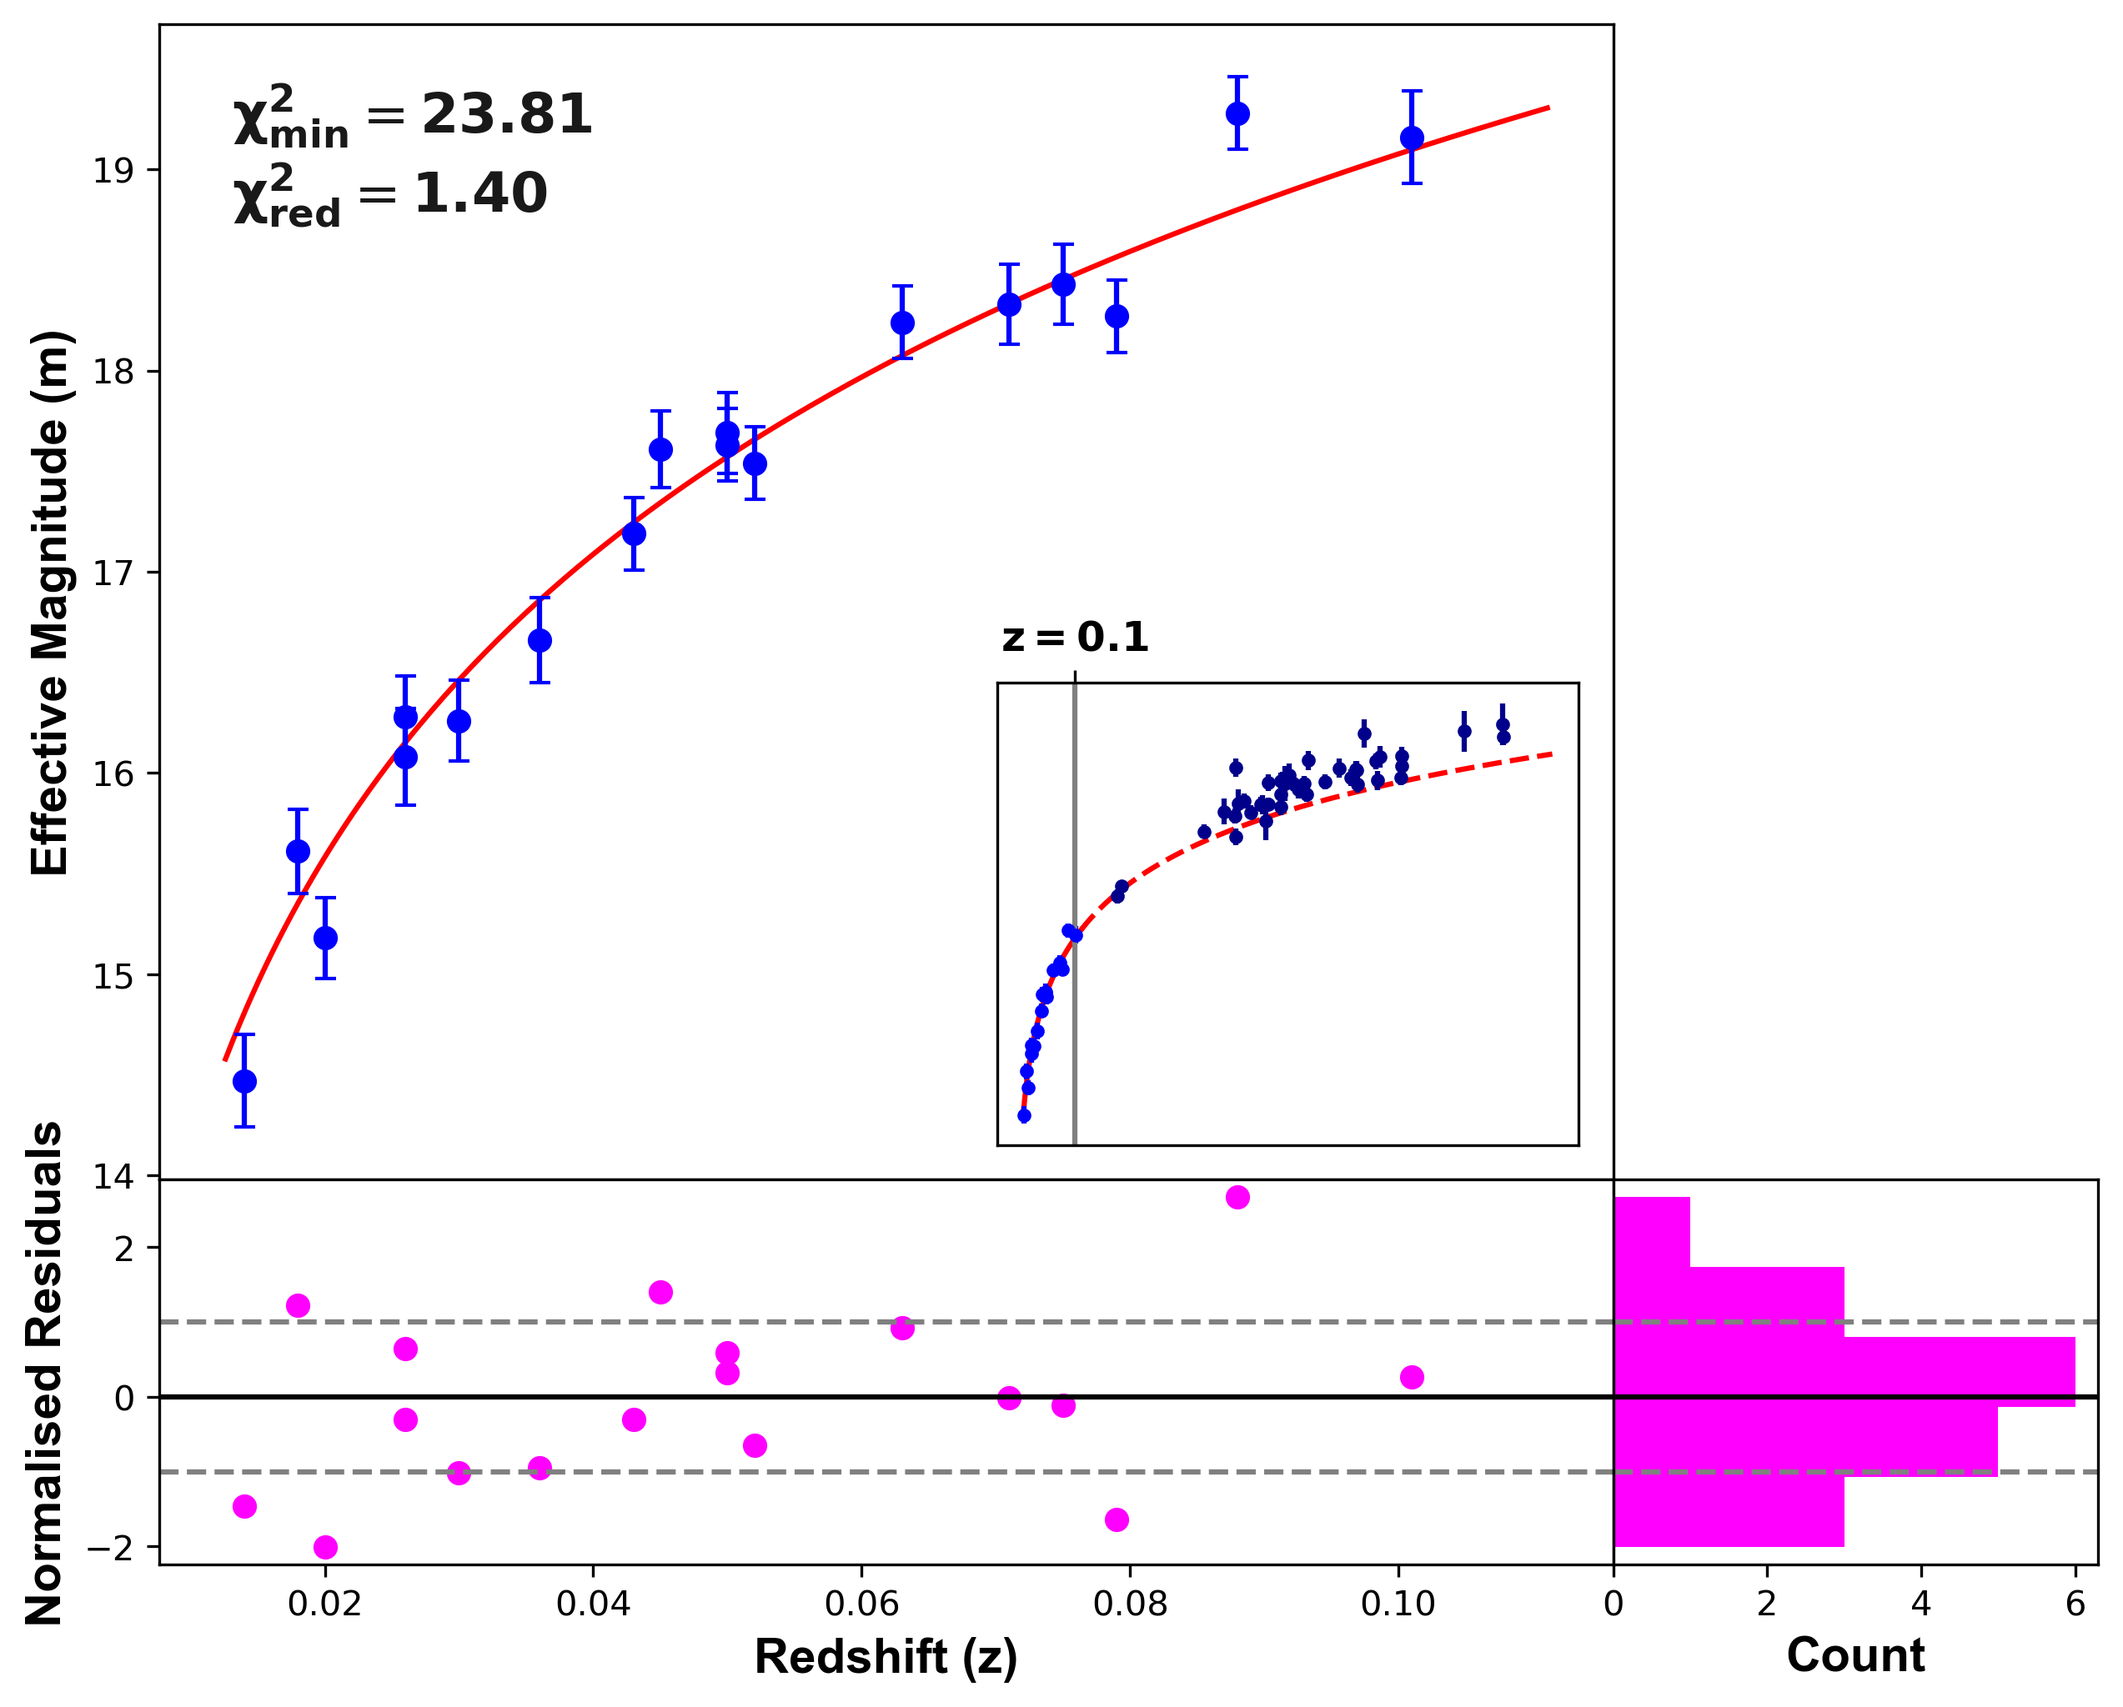
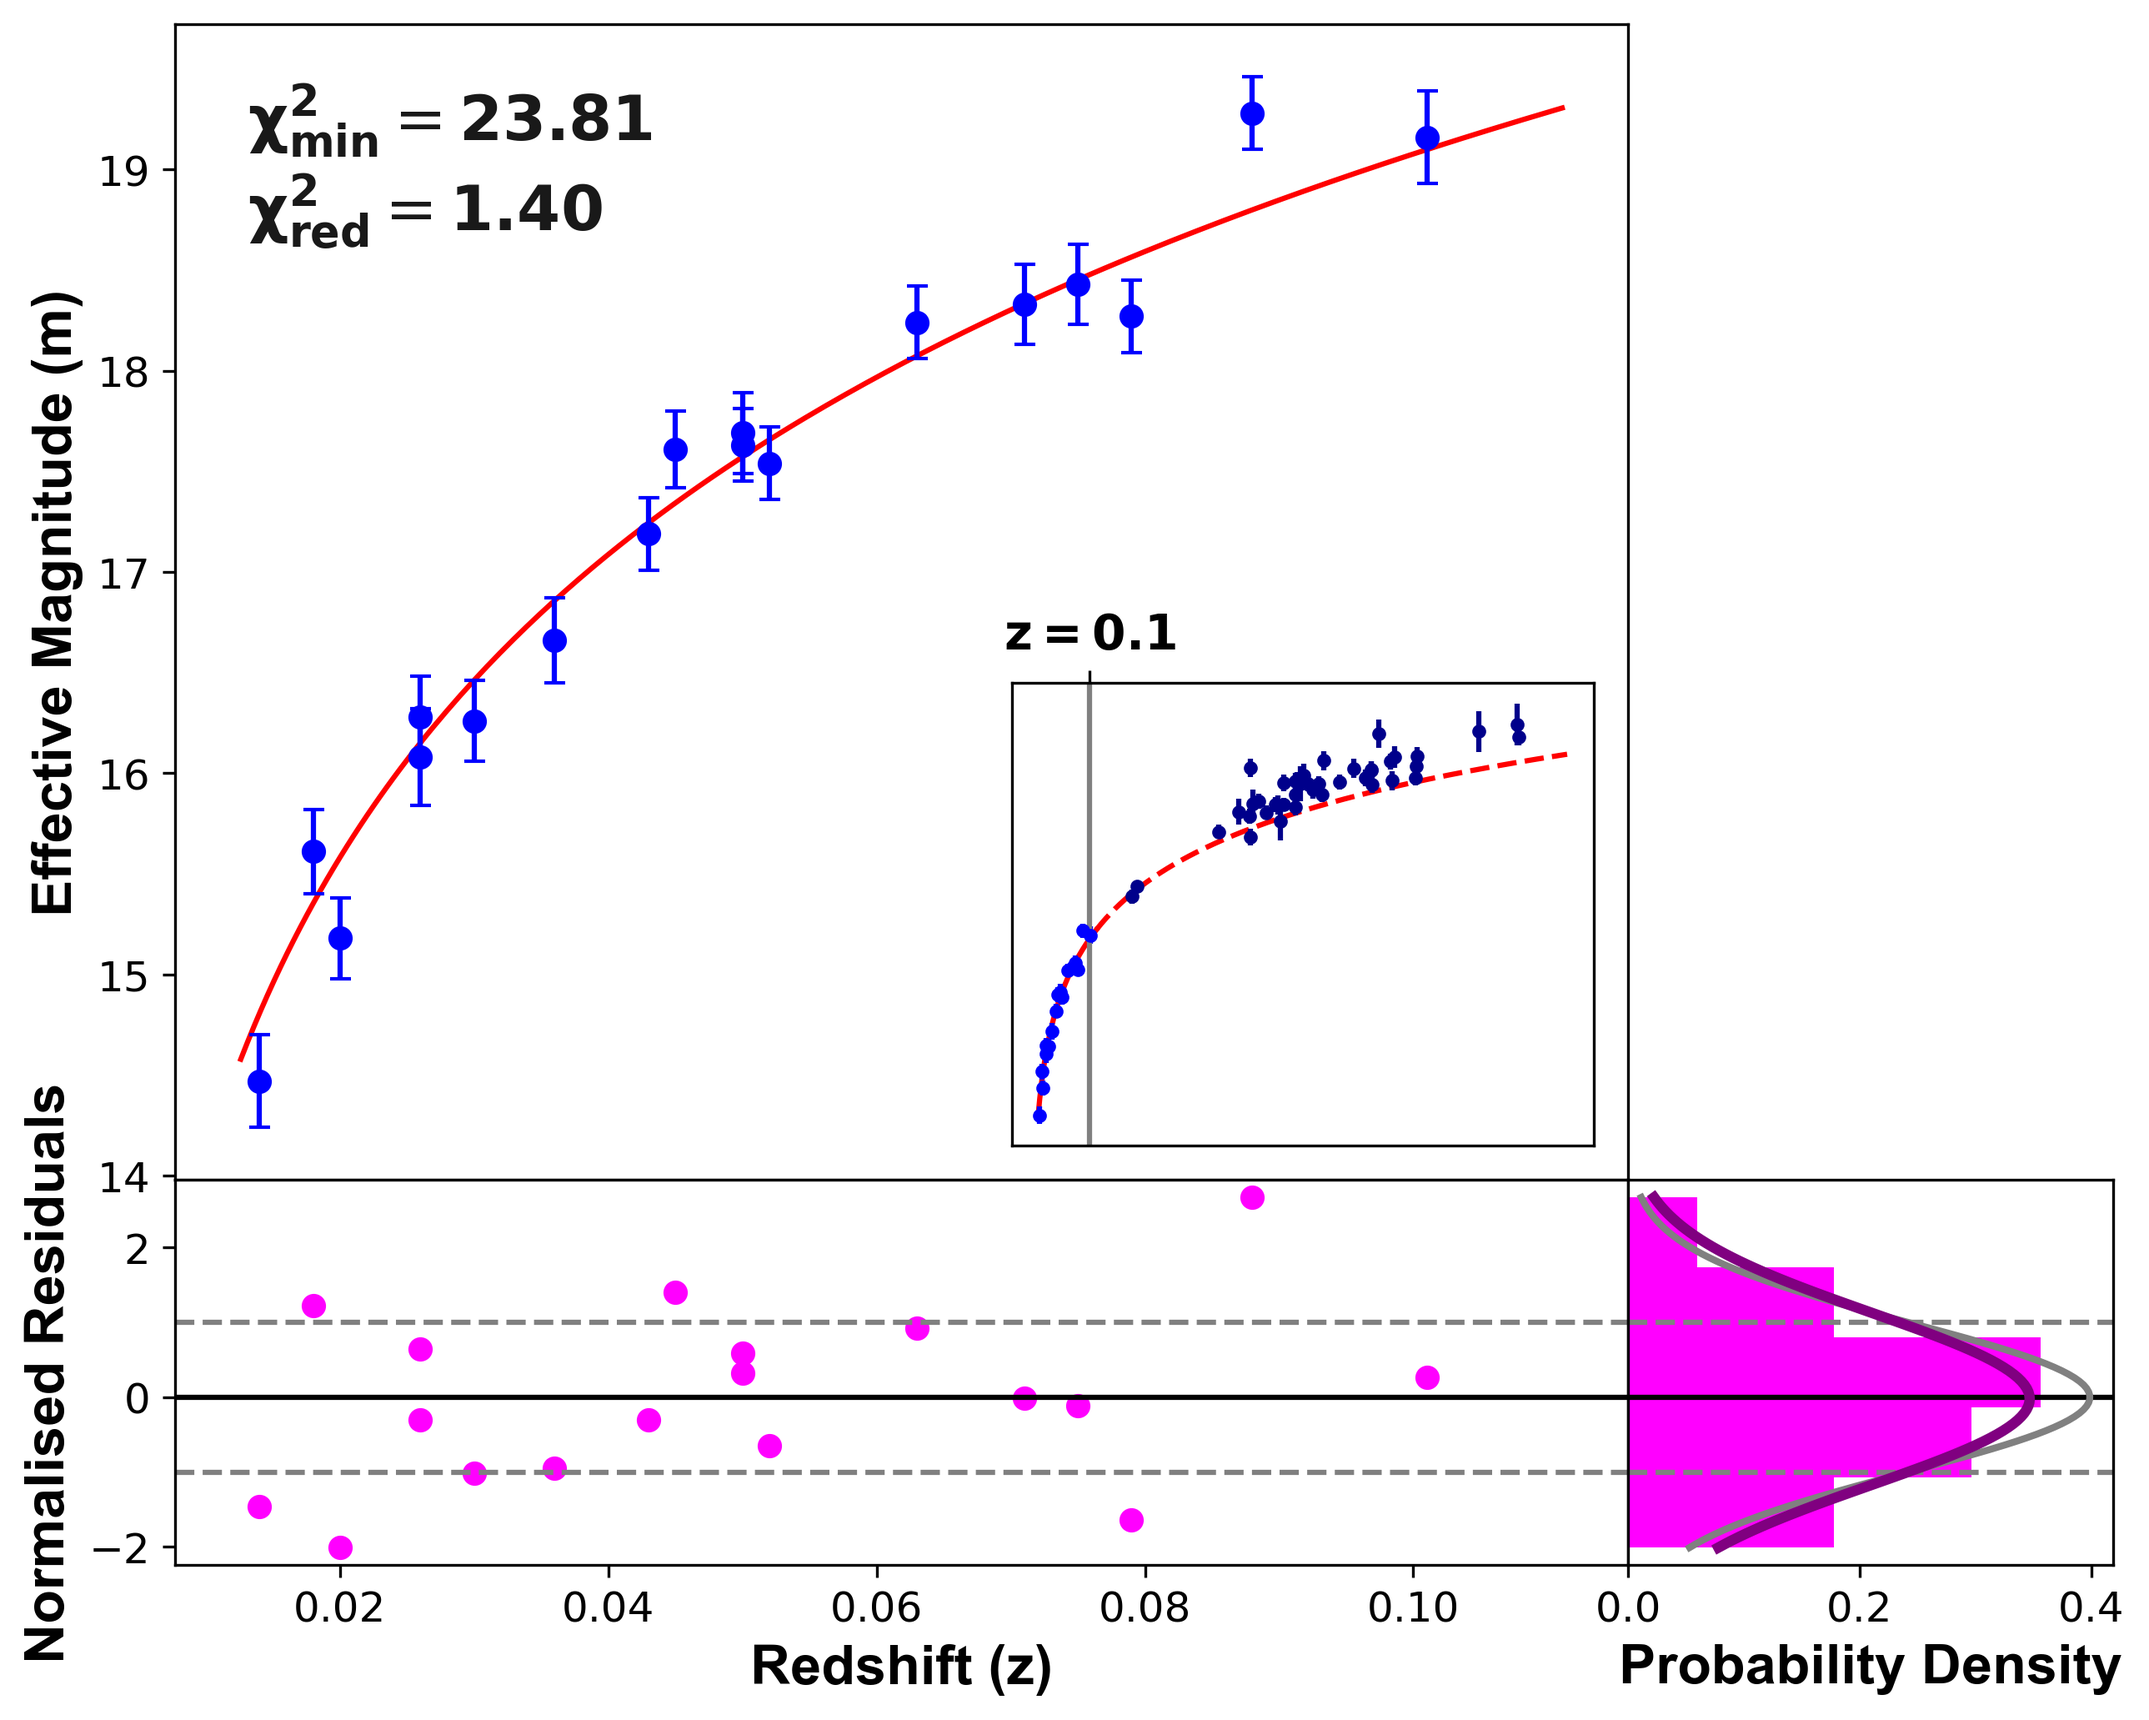
Tutorial 2 edits

diff --git a/part1_plotting.py b/part1_plotting.py
@@ -3,6 +3,7 @@ import astropy.units as u
 from astropy.constants import c
 import matplotlib.pyplot as plt
 import matplotlib.gridspec as gridspec
+from scipy.stats import norm
 from mpl_toolkits.axes_grid1.inset_locator import inset_axes
 from data_splitting import low_redshift_values
 from data_splitting import high_redshift_values
@@ -35,10 +36,10 @@ z_model = np.linspace(min(z_obs)*0.9, max(z_obs)*1.1, 200)
 m_model_vals = m_model(z_model, best_L)
 ax0.plot(z_model, m_model_vals, color='red', label='Best-fit model')
 ax0.errorbar(z_obs, m_obs, yerr=err, color = 'blue', fmt='o', label='Observed', capsize=3)
-ax0.set_ylabel('Effective Magnitude (m)',fontsize=14, fontweight='bold', fontname='Arial')
-ax0.tick_params(labelbottom=False) 
+ax0.set_ylabel('Effective Magnitude (m)',fontsize=16, fontweight='bold', fontname='Arial')
+ax0.tick_params(labelbottom=False, labelsize=12) 
 textstr = (r"$\mathbf{\chi^2_{min}} = \mathbf{" + f"{chi2_min:.2f}" + r"}$" + "\n" r"$\mathbf{\chi^2_{red}} = \mathbf{" + f"{chi2_red:.2f}" + r"}$")
-ax0.text(0.05, 0.95, textstr,transform=ax0.transAxes,fontsize=16,verticalalignment='top',horizontalalignment='left',alpha=0.9)
+ax0.text(0.05, 0.95, textstr,transform=ax0.transAxes,fontsize=18,verticalalignment='top',horizontalalignment='left',alpha=0.9)
 
 #full data and model fit inset
 inset = inset_axes(ax0, width="40%", height="40%", loc='lower right', borderpad=1)
@@ -54,7 +55,7 @@ inset.set_xticks([])
 inset.set_yticks([])  
 inset.set_xticks([0.1])
 inset.set_xticklabels([r'$\mathbf{z=0.1}$'])
-inset.tick_params(axis='x', labelsize=12) 
+inset.tick_params(axis='x', labelsize=14) 
 inset.xaxis.set_label_position('top') 
 inset.xaxis.tick_top() 
 
@@ -65,17 +66,28 @@ ax1.axhline(y=0, color='black')
 ax1.axhline(y=1, color='grey', linestyle='--')
 ax1.axhline(y=-1, color='grey', linestyle='--')
 ax1.scatter(z_obs, residuals, color='magenta')
-ax1.set_xlabel('Redshift (z)',fontsize=14, fontweight='bold', fontname='Arial')
-ax1.set_ylabel('Normalised Residuals',fontsize=14, fontweight='bold', fontname='Arial')
+ax1.set_xlabel('Redshift (z)',fontsize=16, fontweight='bold', fontname='Arial')
+ax1.set_ylabel('Normalised Residuals',fontsize=16, fontweight='bold', fontname='Arial')
+ax1.xaxis.set_tick_params(labelsize=12)
+ax1.yaxis.set_tick_params(labelsize=12)
 
 #histogram of residuals
 ax2 = fig.add_subplot(gs[1, 1], sharey=ax1) 
-ax2.hist(residuals, bins=5, color='magenta', orientation='horizontal')
+ax2.hist(residuals, bins=5, color='magenta', orientation='horizontal', density=True)
 ax2.axhline(y=0, color='black')
 ax2.axhline(y=1, color='grey', linestyle='--')
 ax2.axhline(y=-1, color='grey', linestyle='--')
-ax2.set_xlabel('Count',fontsize=14, fontweight='bold', fontname='Arial')
-ax2.tick_params(left=False, labelleft=False)  
+y = np.linspace(min(residuals), max(residuals), 300)
+#model and actual Gaussian
+mu_resid, sigma_resid = np.mean(residuals), np.std(residuals)
+mu_perf, sigma_perf = 0, 1
+y = np.linspace(min(residuals), max(residuals), 100)
+pdf_resid = norm.pdf(y, mu_resid, sigma_resid)
+pdf_perf = norm.pdf(y, mu_perf, sigma_perf)
+ax2.plot(pdf_perf, y, color='grey', lw=2)
+ax2.plot(pdf_resid, y, color='purple', lw=3)
+ax2.set_xlabel('Probability Density',fontsize=16, fontweight='bold', fontname='Arial')
+ax2.tick_params(left=False, labelleft=False, labelsize=12)  
 fig.savefig("Poster_L_plot.png", dpi=300, bbox_inches='tight')
 plt.show()
 
@@ -83,21 +95,21 @@ plt.show()
 #chi-squared for different peak luminosity values
 fig, ax = plt.subplots(figsize=(10, 8))
 ax.plot(np.log(L_values.value), chi2_values)
-ax.axhline(chi2_min, color = 'red', linestyle = '-')
-ax.axhline(chi2_min+1, color = 'red', linestyle = '--')
-ax.axvline(np.log(best_L.value), color = 'red', linestyle = '-')
-ax.axvline(np.log((best_L + sigma_L_plus).value), color = 'red', linestyle = '--')
-ax.axvline(np.log((best_L - sigma_L_minus).value), color = 'red', linestyle = '--')
-ax.set_xlabel('Peak luminosity', fontsize=14, fontweight='bold', fontname='Arial')
+ax.hlines(chi2_min, xmin=min(np.log(L_values.value)), xmax=np.log(best_L.value),color='red', linestyles='-')
+ax.hlines(chi2_min + 1, xmin=min(np.log(L_values.value)), xmax=np.log((best_L+sigma_L_plus).value),color='red', linestyles='--')
+ax.vlines(np.log(best_L.value), ymin=0, ymax=chi2_min, color='red', linestyles='-')
+ax.vlines(np.log((best_L + sigma_L_plus).value), ymin=0, ymax=chi2_min+1,color='red', linestyles='--')
+ax.vlines(np.log((best_L - sigma_L_minus).value), ymin=0, ymax=chi2_min+1,color='red', linestyles='--')
+ax.set_xlabel(r'$\mathbf{log_{10}}$ Peak Luminosity', fontsize=14, fontweight='bold', fontname='Arial')
 ax.set_ylabel(r'Minimised $\mathbf{\chi^2}$', fontsize=14, fontweight='bold', fontname='Arial')
-ax.set_xlim(74.5,75)
+ax.set_xlim(74.6,74.9)
 #ax.set_xticks([np.log(best_L.value), np.log((best_L + sigma_L_plus).value),np.log((best_L - sigma_L_minus).value),74.5,74.7,74.9])
 #ax.set_xticklabels(['$Best L$','$L+err$','$L-err$','74.5','74.7','74.9'])
-ax.set_xticks([np.log(best_L.value),74.5,74.6,74.7,74.8,74.9,75.0])
-ax.set_xticklabels([r'$\mathbf{Best\ L_{peak}}$','74.5','74.6','74.7','74.8','74.9','75.0'])
-ax.set_ylim(20,35)
-ax.set_yticks([chi2_min, chi2_min+1,20,23,26,29,32,35])
-ax.set_yticklabels(['$\\chi^2_{min}$','$\\chi^2_{min}+1$','20','23','26','29','32','35'])
+ax.set_xticks([np.log(best_L.value),74.6,74.7,74.8,74.9])
+ax.set_xticklabels([r'$\mathbf{Best\ L_{peak}}$','74.6','74.7','74.8','74.9'])
+ax.set_ylim(20,30)
+ax.set_yticks([chi2_min, chi2_min+1,20,23,26,29])
+ax.set_yticklabels([r'$\mathbf{\chi^2_{min}}$',r'$\mathbf{\chi^2_{min}+1}$','20','23','26','29'])
 textstr = (r"$\mathbf{\chi^2_{min}} = \mathbf{" + f"{chi2_min:.2f}" + r"}$" + "\n" r"$\mathbf{\chi^2_{red}} = \mathbf{" + f"{chi2_red:.2f}" + r"}$")
-ax.text(0.05, 0.4, textstr,transform=ax0.transAxes,fontsize=16,verticalalignment='top',horizontalalignment='left',alpha=0.9)
+ax.text(0.6, 0.8, textstr,transform=ax0.transAxes,fontsize=16,verticalalignment='top',horizontalalignment='left',alpha=0.9)
 plt.show()

diff --git a/part2_plotting.py b/part2_plotting.py
@@ -3,6 +3,7 @@ import astropy.units as u
 from astropy.constants import c
 import matplotlib.pyplot as plt
 import matplotlib.gridspec as gridspec
+from scipy.stats import norm
 from mpl_toolkits.axes_grid1.inset_locator import inset_axes
 from data_splitting import low_redshift_values
 from data_splitting import high_redshift_values
@@ -48,11 +49,19 @@ ax1.set_ylabel('Normalised Residuals',fontsize=14, fontweight='bold', fontname='
 
 #histogram of residuals
 ax2 = fig.add_subplot(gs[1, 1], sharey=ax1) 
-ax2.hist(residuals, bins=7, color='magenta', orientation='horizontal')
+ax2.hist(residuals, bins=9, color='magenta', orientation='horizontal', density=True)
 ax2.axhline(y=0, color='black')
 ax2.axhline(y=1, color='grey', linestyle='--')
 ax2.axhline(y=-1, color='grey', linestyle='--')
-ax2.set_xlabel('Count',fontsize=14, fontweight='bold', fontname='Arial')
+#model and actual Gaussian
+mu_resid, sigma_resid = np.mean(residuals), np.std(residuals)
+mu_perf, sigma_perf = 0, 1
+y = np.linspace(min(residuals), max(residuals), 100)
+pdf_resid = norm.pdf(y, mu_resid, sigma_resid)
+pdf_perf = norm.pdf(y, mu_perf, sigma_perf)
+ax2.plot(pdf_perf, y, color='grey', lw=2)
+ax2.plot(pdf_resid, y, color='purple', lw=3)
+ax2.set_xlabel('Probability Density',fontsize=14, fontweight='bold', fontname='Arial')
 ax2.tick_params(left=False, labelleft=False)  
 
 plt.show()
@@ -66,16 +75,17 @@ ax.hlines(chi2_min + 1, xmin=min(Omega_L_values), xmax=best_Omega_L+sigma_OL_plu
 ax.vlines(best_Omega_L, ymin=0, ymax=chi2_min, color='red', linestyles='-')
 ax.vlines(best_Omega_L + sigma_OL_plus, ymin=0, ymax=chi2_min+1,color='red', linestyles='--')
 ax.vlines(best_Omega_L - sigma_OL_minus, ymin=0, ymax=chi2_min+1,color='red', linestyles='--')
-ax.set_xlabel('Dark Energy Density Parameter', fontsize=20, fontweight='bold', fontname='Arial')
-ax.set_ylabel(r'Minimised $\mathbf{\chi^2}$', fontsize=20, fontweight='bold', fontname='Arial')
+ax.set_xlabel('Dark Energy Density Parameter', fontsize=22, fontweight='bold', fontname='Arial')
+ax.set_ylabel(r'Minimised $\mathbf{\chi^2}$', fontsize=22, fontweight='bold', fontname='Arial')
+ax.yaxis.set_label_coords(-0.1, 0.7)
 ax.set_xlim(0.35,0.7)
 ax.set_xticks([best_Omega_L, 0.35, 0.5, 0.65])
 ax.set_xticklabels([r'$\mathbf{Best\ \Omega_{\Lambda,0}}$','0.35','0.5','0.65'])
-ax.set_ylim(80,87)
+ax.set_ylim(80,86)
 ax.set_yticks([chi2_min, chi2_min+1, 80, 85])
 ax.set_yticklabels([r'$\mathbf{\chi^2_{min}}$',r'$\mathbf{\chi^2_{min} + 1}$','80','85'])
-ax.tick_params(axis='both', labelsize=15) 
+ax.tick_params(axis='both', labelsize=16) 
 textstr = (r"$\mathbf{\chi^2_{min}} = \mathbf{" + f"{chi2_min:.2f}" + r"}$" + "\n" r"$\mathbf{\chi^2_{red}} = \mathbf{" + f"{chi2_red:.2f}" + r"}$")
-ax.text(1.8, 2.6, textstr,transform=ax0.transAxes,fontsize=25,verticalalignment='top',horizontalalignment='left',alpha=0.9)
+ax.text(1.8, 2.6, textstr,transform=ax0.transAxes,fontsize=28,verticalalignment='top',horizontalalignment='left',alpha=0.9)
 fig.savefig("Poster_OL_chi2.png", dpi=300, bbox_inches='tight')
 plt.show()

diff --git a/part1_results.py b/part1_results.py
@@ -4,6 +4,7 @@ from astropy.constants import c
 from data_splitting import low_redshift_values
 from part1_defs import m_model
 from part1_defs import chi_squared
+from part1_defs import H0
 
 L_values = np.logspace(32, 33, 500) * u.W / u.AA
 
@@ -35,3 +36,26 @@ scaled_L_rounded = round(scaled_L, decimal_places)
 print(f"Best-fit L = ({scaled_L_rounded:.{decimal_places}f} ± {scaled_error_rounded:.{decimal_places}f})e{exponent} {best_L.unit}")
 print(f"Minimum chi-squared = {chi2_min}")
 print(f"Reduced chi-squared = {chi2_red}")
+
+#L in terms of solar luminosity (take as order of magnitude estimate)
+L_sun = 3.828*10**26*u.W/(1000*u.AA)   #have guessed 1000 as typical angstrom range for B band
+L_over_Ls = best_L/L_sun
+LoLs_error = average_error/L_sun
+exponent = int(np.floor(np.log10(L_over_Ls.value)))
+scaled_L = L_over_Ls.value / 10**exponent
+scaled_error = LoLs_error.value / 10**exponent
+scaled_error_rounded = float(f"{scaled_error:.2g}")
+decimal_places = -int(np.floor(np.log10(scaled_error_rounded)))
+scaled_L_rounded = round(scaled_L, decimal_places)
+print(f"L/Lsun = ({scaled_L_rounded:.{decimal_places}f} ± {scaled_error_rounded:.{decimal_places}f})e{exponent} {L_over_Ls.unit}")
+
+#editing s.f. and d.p. for LH2 and its error
+LH2 = (best_L*H0**2).to(u.W / (u.m * u.s**2))
+LH2_error = (average_error*H0**2).to(u.W / (u.m * u.s**2))
+exponent = int(np.floor(np.log10(LH2.value)))
+scaled_L = LH2.value / 10**exponent
+scaled_error = LH2_error.value / 10**exponent
+scaled_error_rounded = float(f"{scaled_error:.2g}")
+decimal_places = -int(np.floor(np.log10(scaled_error_rounded)))
+scaled_L_rounded = round(scaled_L, decimal_places)
+print(f"Lₚₑₐₖ × H₀² = ({scaled_L_rounded:.{decimal_places}f} ± {scaled_error_rounded:.{decimal_places}f})e{exponent} {LH2.unit}")
